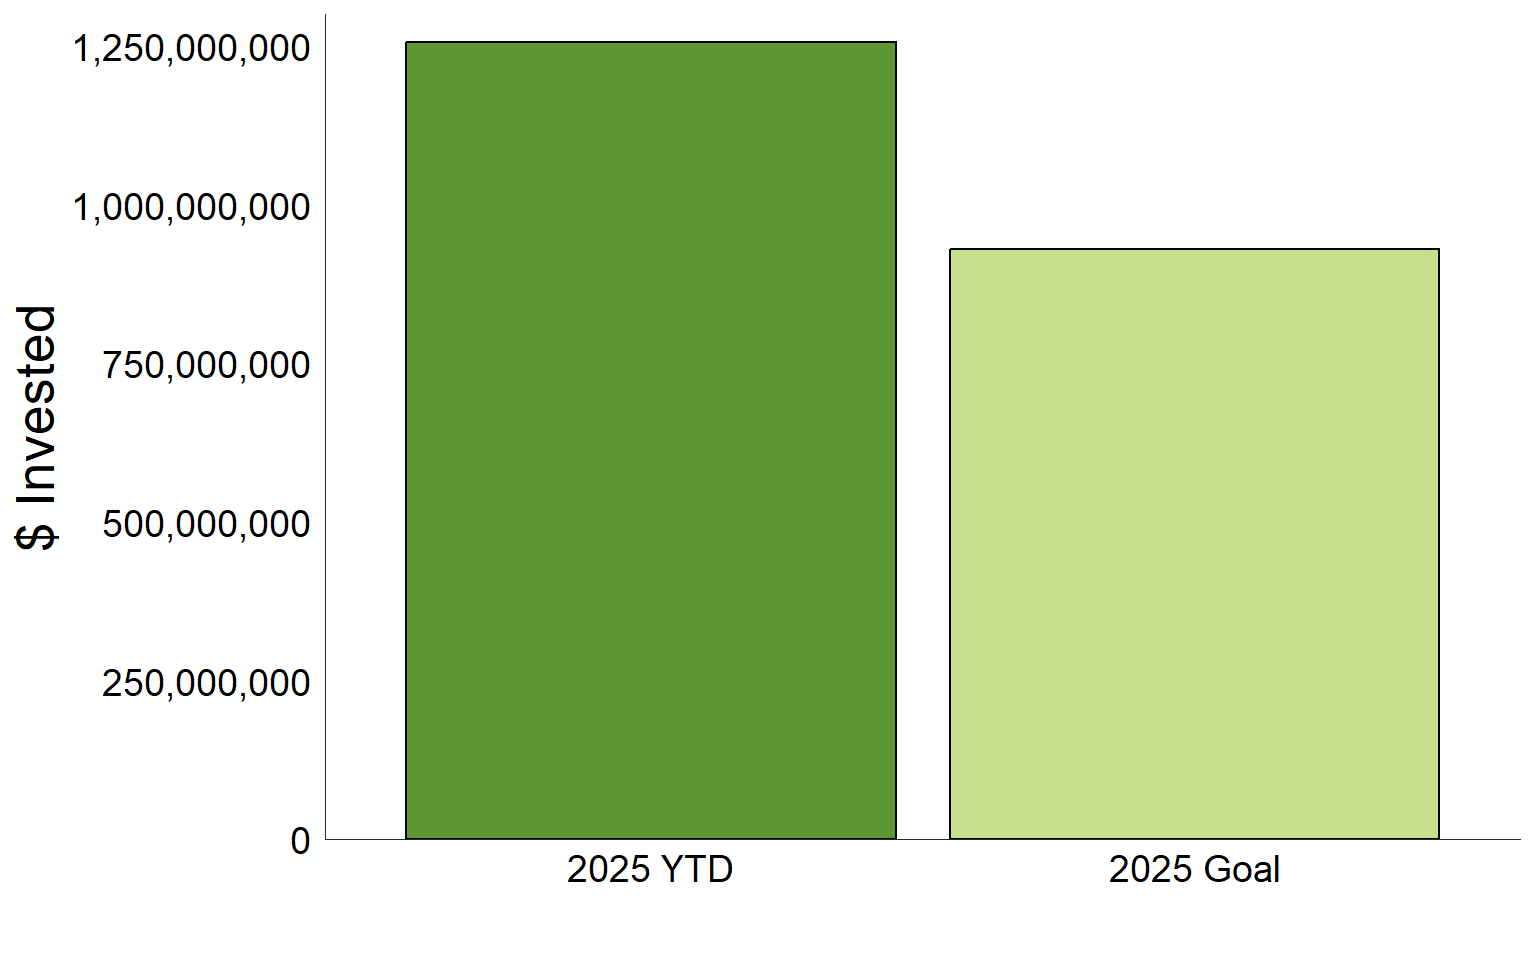
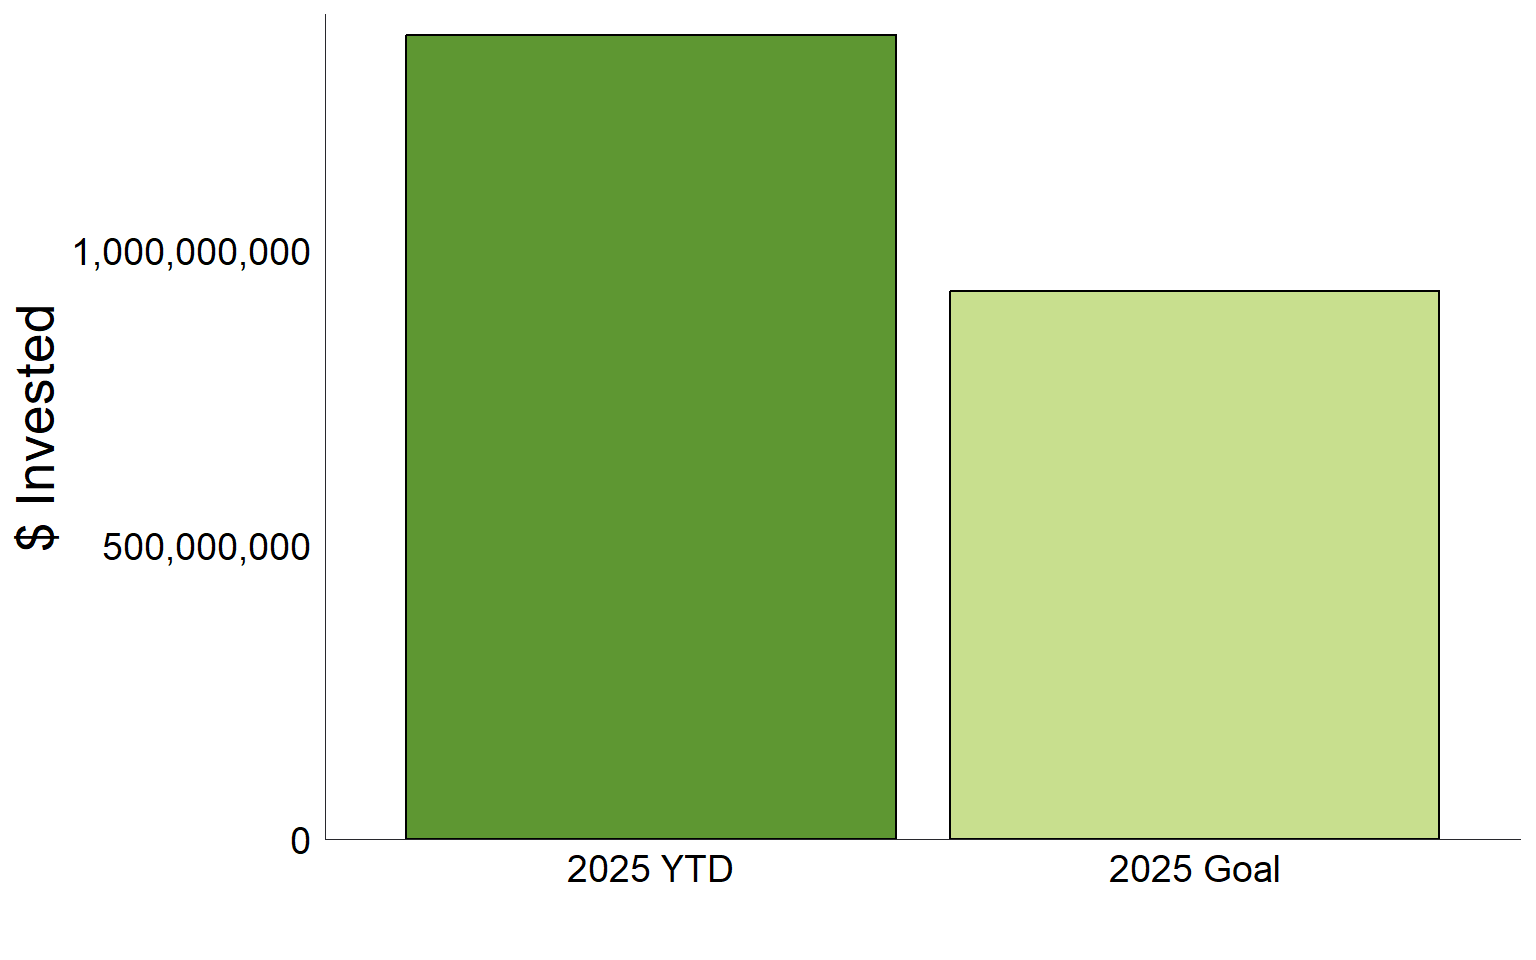
Built site for gh-pages

diff --git a/index.html b/index.html
@@ -89,7 +89,7 @@ grid-auto-rows: minmax(0, 1fr);">
 Total Capital Invested Across All Programs
 </p>
 <p class="value-box-value">
-$1.2 Billion
+$1.3 Billion
 </p>
 </div>
 </div>
@@ -105,7 +105,7 @@ $1.2 Billion
 Total Economic Impact
 </p>
 <p class="value-box-value">
-$4.4 Billion
+$4.9 Billion
 </p>
 </div>
 </div>
@@ -121,7 +121,7 @@ $4.4 Billion
 Total Capital Invested in Disinvested Neighborhoods
 </p>
 <p class="value-box-value">
-17.2%
+18.5%
 </p>
 </div>
 </div>
@@ -137,7 +137,7 @@ Total Capital Invested in Disinvested Neighborhoods
 Average Client Satisfaction Score (scale 1-5)
 </p>
 <p class="value-box-value">
-4.7
+4.6
 </p>
 </div>
 </div>
@@ -164,7 +164,7 @@ Total Capital Investment
 <div class="card-body html-fill-item html-fill-container">
 <div class="quarto-figure quarto-figure-center html-fill-item html-fill-container">
 <figure class="figure">
-<p><a href="https://iatl.maps.arcgis.com/apps/instant/basic/index.html?appid=112649da7b1d4fa58098c16cc402dcc4" target="_blank"><img src="wins_map_20251008.png" class="img-fluid figure-img" style="width:51.0%"></a></p>
+<p><a href="https://iatl.maps.arcgis.com/apps/instant/basic/index.html?appid=112649da7b1d4fa58098c16cc402dcc4" target="_blank"><img src="wins_map_20251211.png" class="img-fluid figure-img" style="width:51.0%"></a></p>
 <figcaption>Click the image to explore our interactive online investment map</figcaption>
 </figure>
 </div>
@@ -193,7 +193,7 @@ grid-auto-rows: minmax(0, 1fr);">
 Direct Investment
 </p>
 <p class="value-box-value">
-$9.7 Million
+$9.8 Million
 </p>
 </div>
 </div>
@@ -209,7 +209,7 @@ $9.7 Million
 Small Businesses Funded (Grants and Loans)
 </p>
 <p class="value-box-value">
-91
+92
 </p>
 </div>
 </div>
@@ -225,7 +225,7 @@ Small Businesses Funded (Grants and Loans)
 Small Businesses Receiving Business Consulting Services
 </p>
 <p class="value-box-value">
-888
+920
 </p>
 </div>
 </div>
@@ -241,7 +241,7 @@ Small Businesses Receiving Business Consulting Services
 Small Business Funded in Disinvested Neighborhoods
 </p>
 <p class="value-box-value">
-37.4%
+37.0%
 </p>
 </div>
 </div>
@@ -327,7 +327,7 @@ $21.5 Million
 TAD Financing
 </p>
 <p class="value-box-value">
-$11.9 Million
+$14.9 Million
 </p>
 </div>
 </div>
@@ -429,7 +429,7 @@ grid-auto-rows: minmax(0, 1fr);">
 Total Capital Invested (Housing)
 </p>
 <p class="value-box-value">
-$548 Million
+$650 Million
 </p>
 </div>
 </div>
@@ -445,7 +445,7 @@ $548 Million
 Total Affordable Housing Units Financed
 </p>
 <p class="value-box-value">
-1,417
+1,631
 </p>
 </div>
 </div>
@@ -461,7 +461,7 @@ Total Affordable Housing Units Financed
 Affordable Units &lt;60% AMI
 </p>
 <p class="value-box-value">
-1,076
+1,285
 </p>
 </div>
 </div>
@@ -477,7 +477,7 @@ Affordable Units &lt;60% AMI
 Homeownership Incentives (Down Payment, Home Rehab)
 </p>
 <p class="value-box-value">
-634
+651
 </p>
 </div>
 </div>
@@ -547,7 +547,7 @@ grid-auto-rows: minmax(0, 1fr);">
 Total Capital Investment (Jobs &amp; Employment)
 </p>
 <p class="value-box-value">
-$528 Million
+$530 Million
 </p>
 </div>
 </div>
@@ -563,7 +563,7 @@ $528 Million
 Total Jobs Impact
 </p>
 <p class="value-box-value">
-3,896
+3,966
 </p>
 </div>
 </div>
@@ -595,7 +595,7 @@ New Good Jobs Created
 Business Development Projects Closed
 </p>
 <p class="value-box-value">
-44
+50
 </p>
 </div>
 </div>
